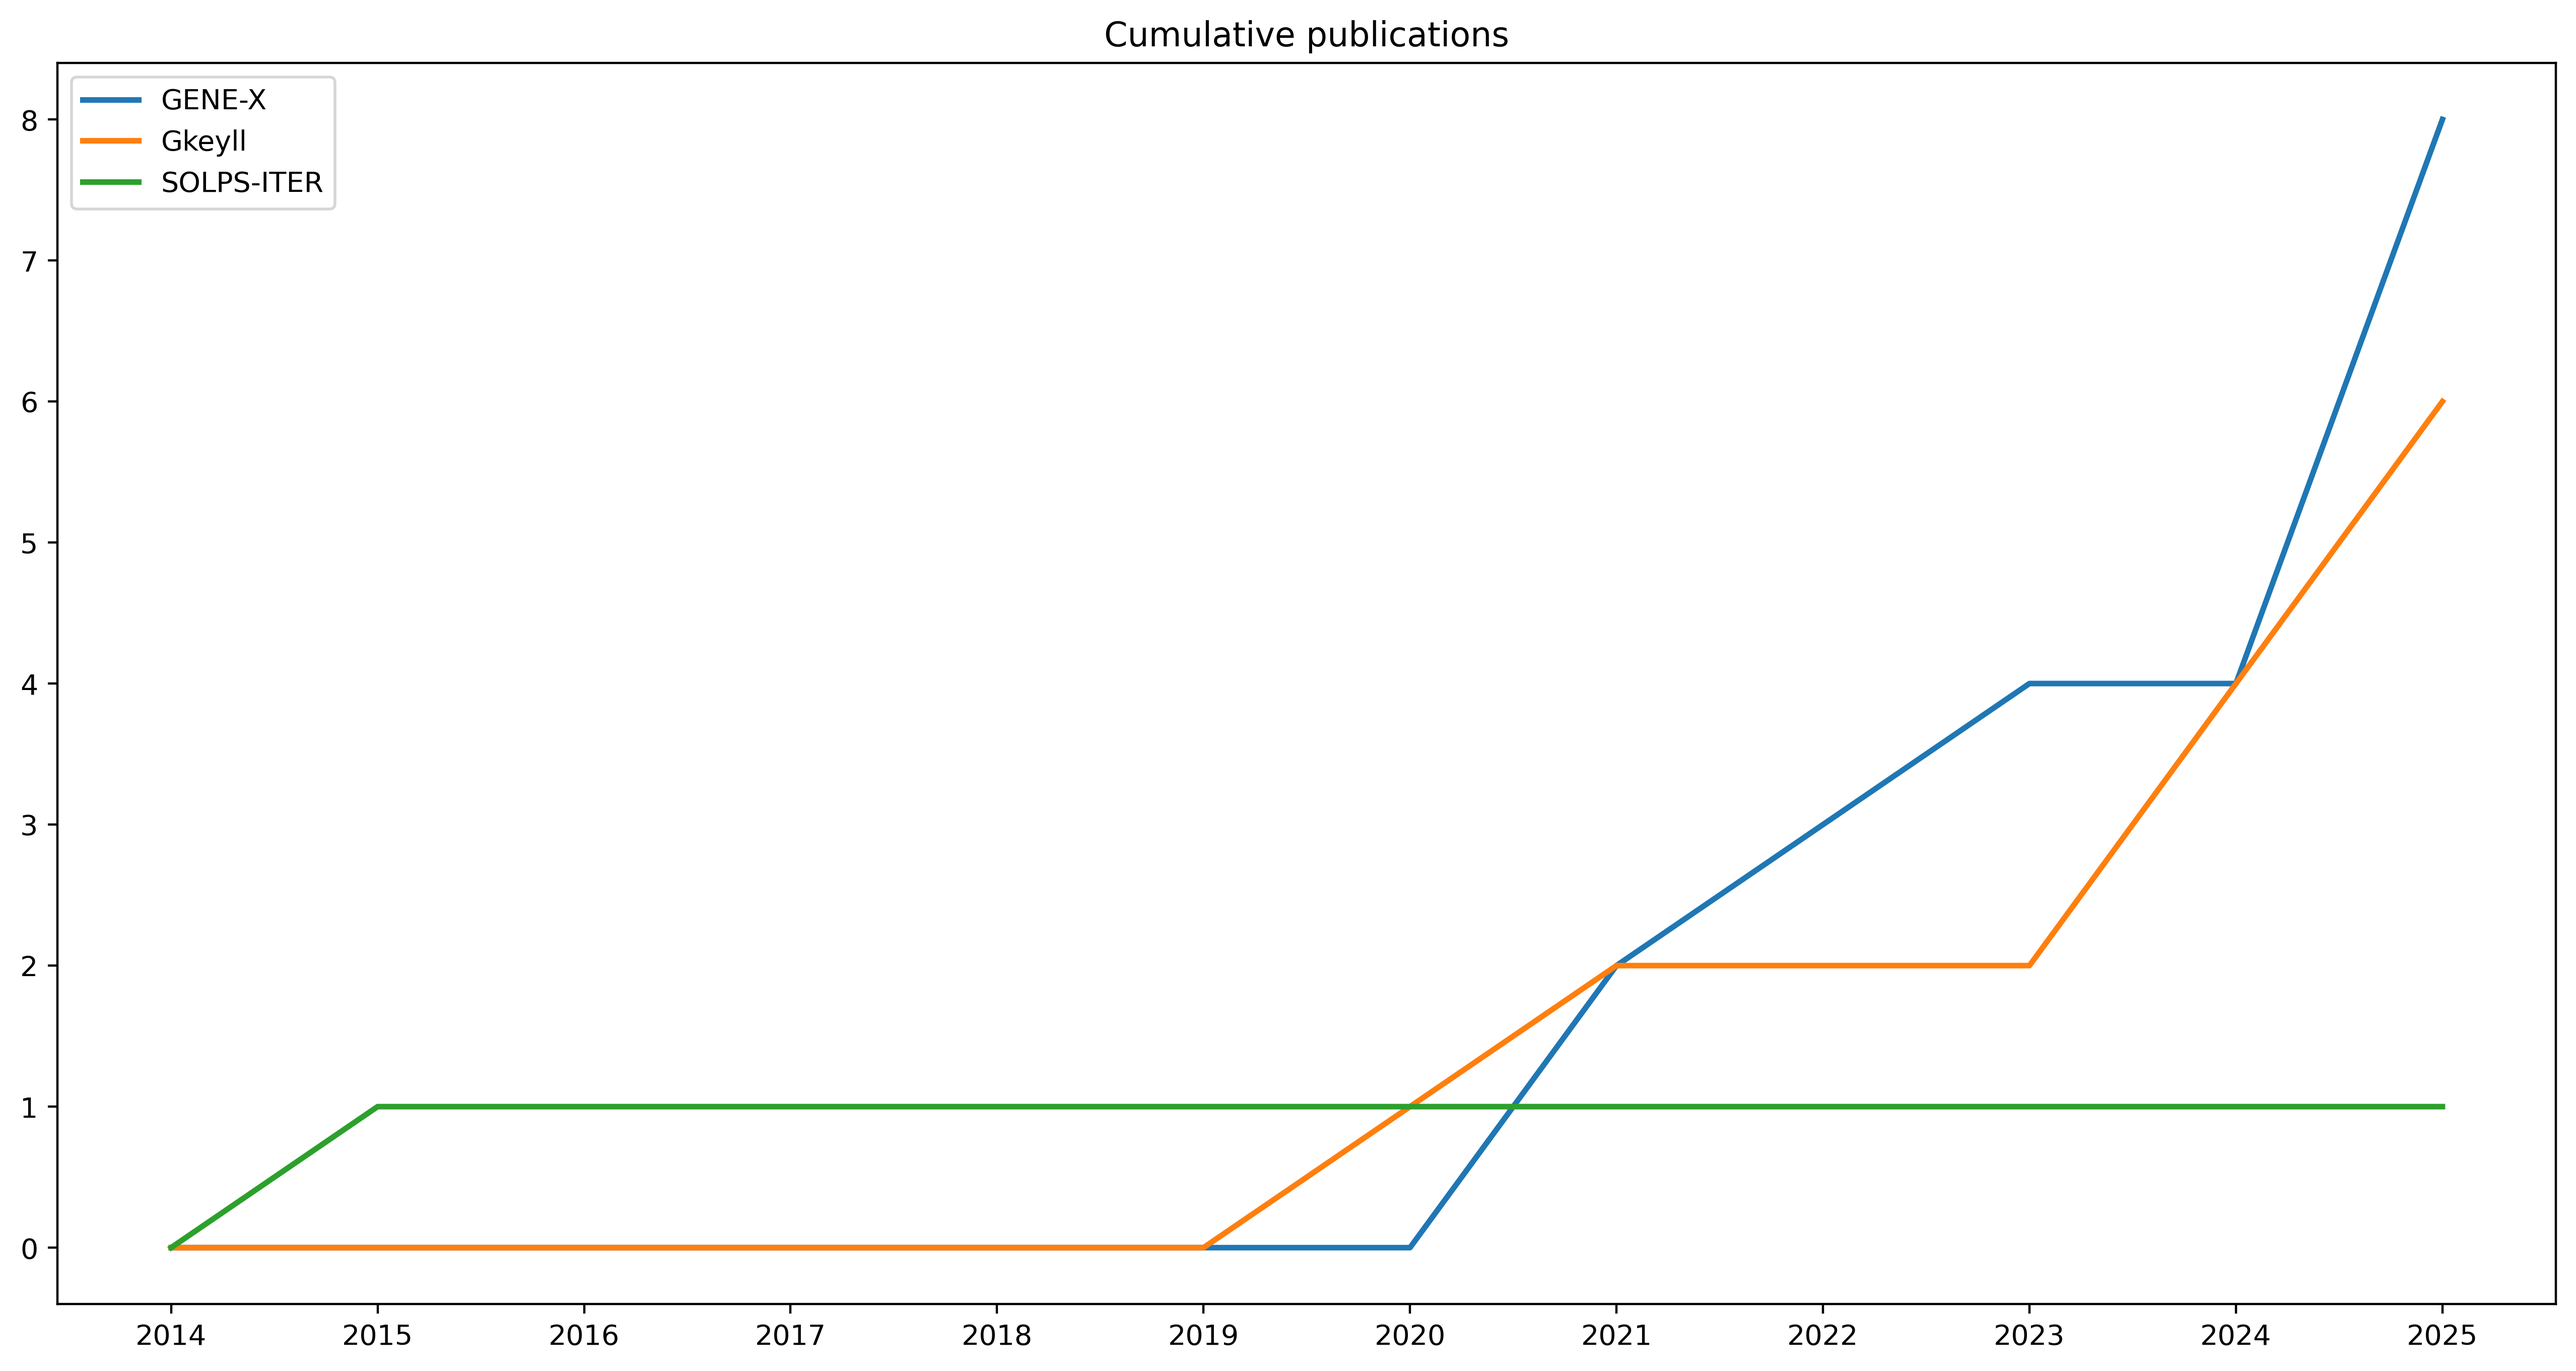
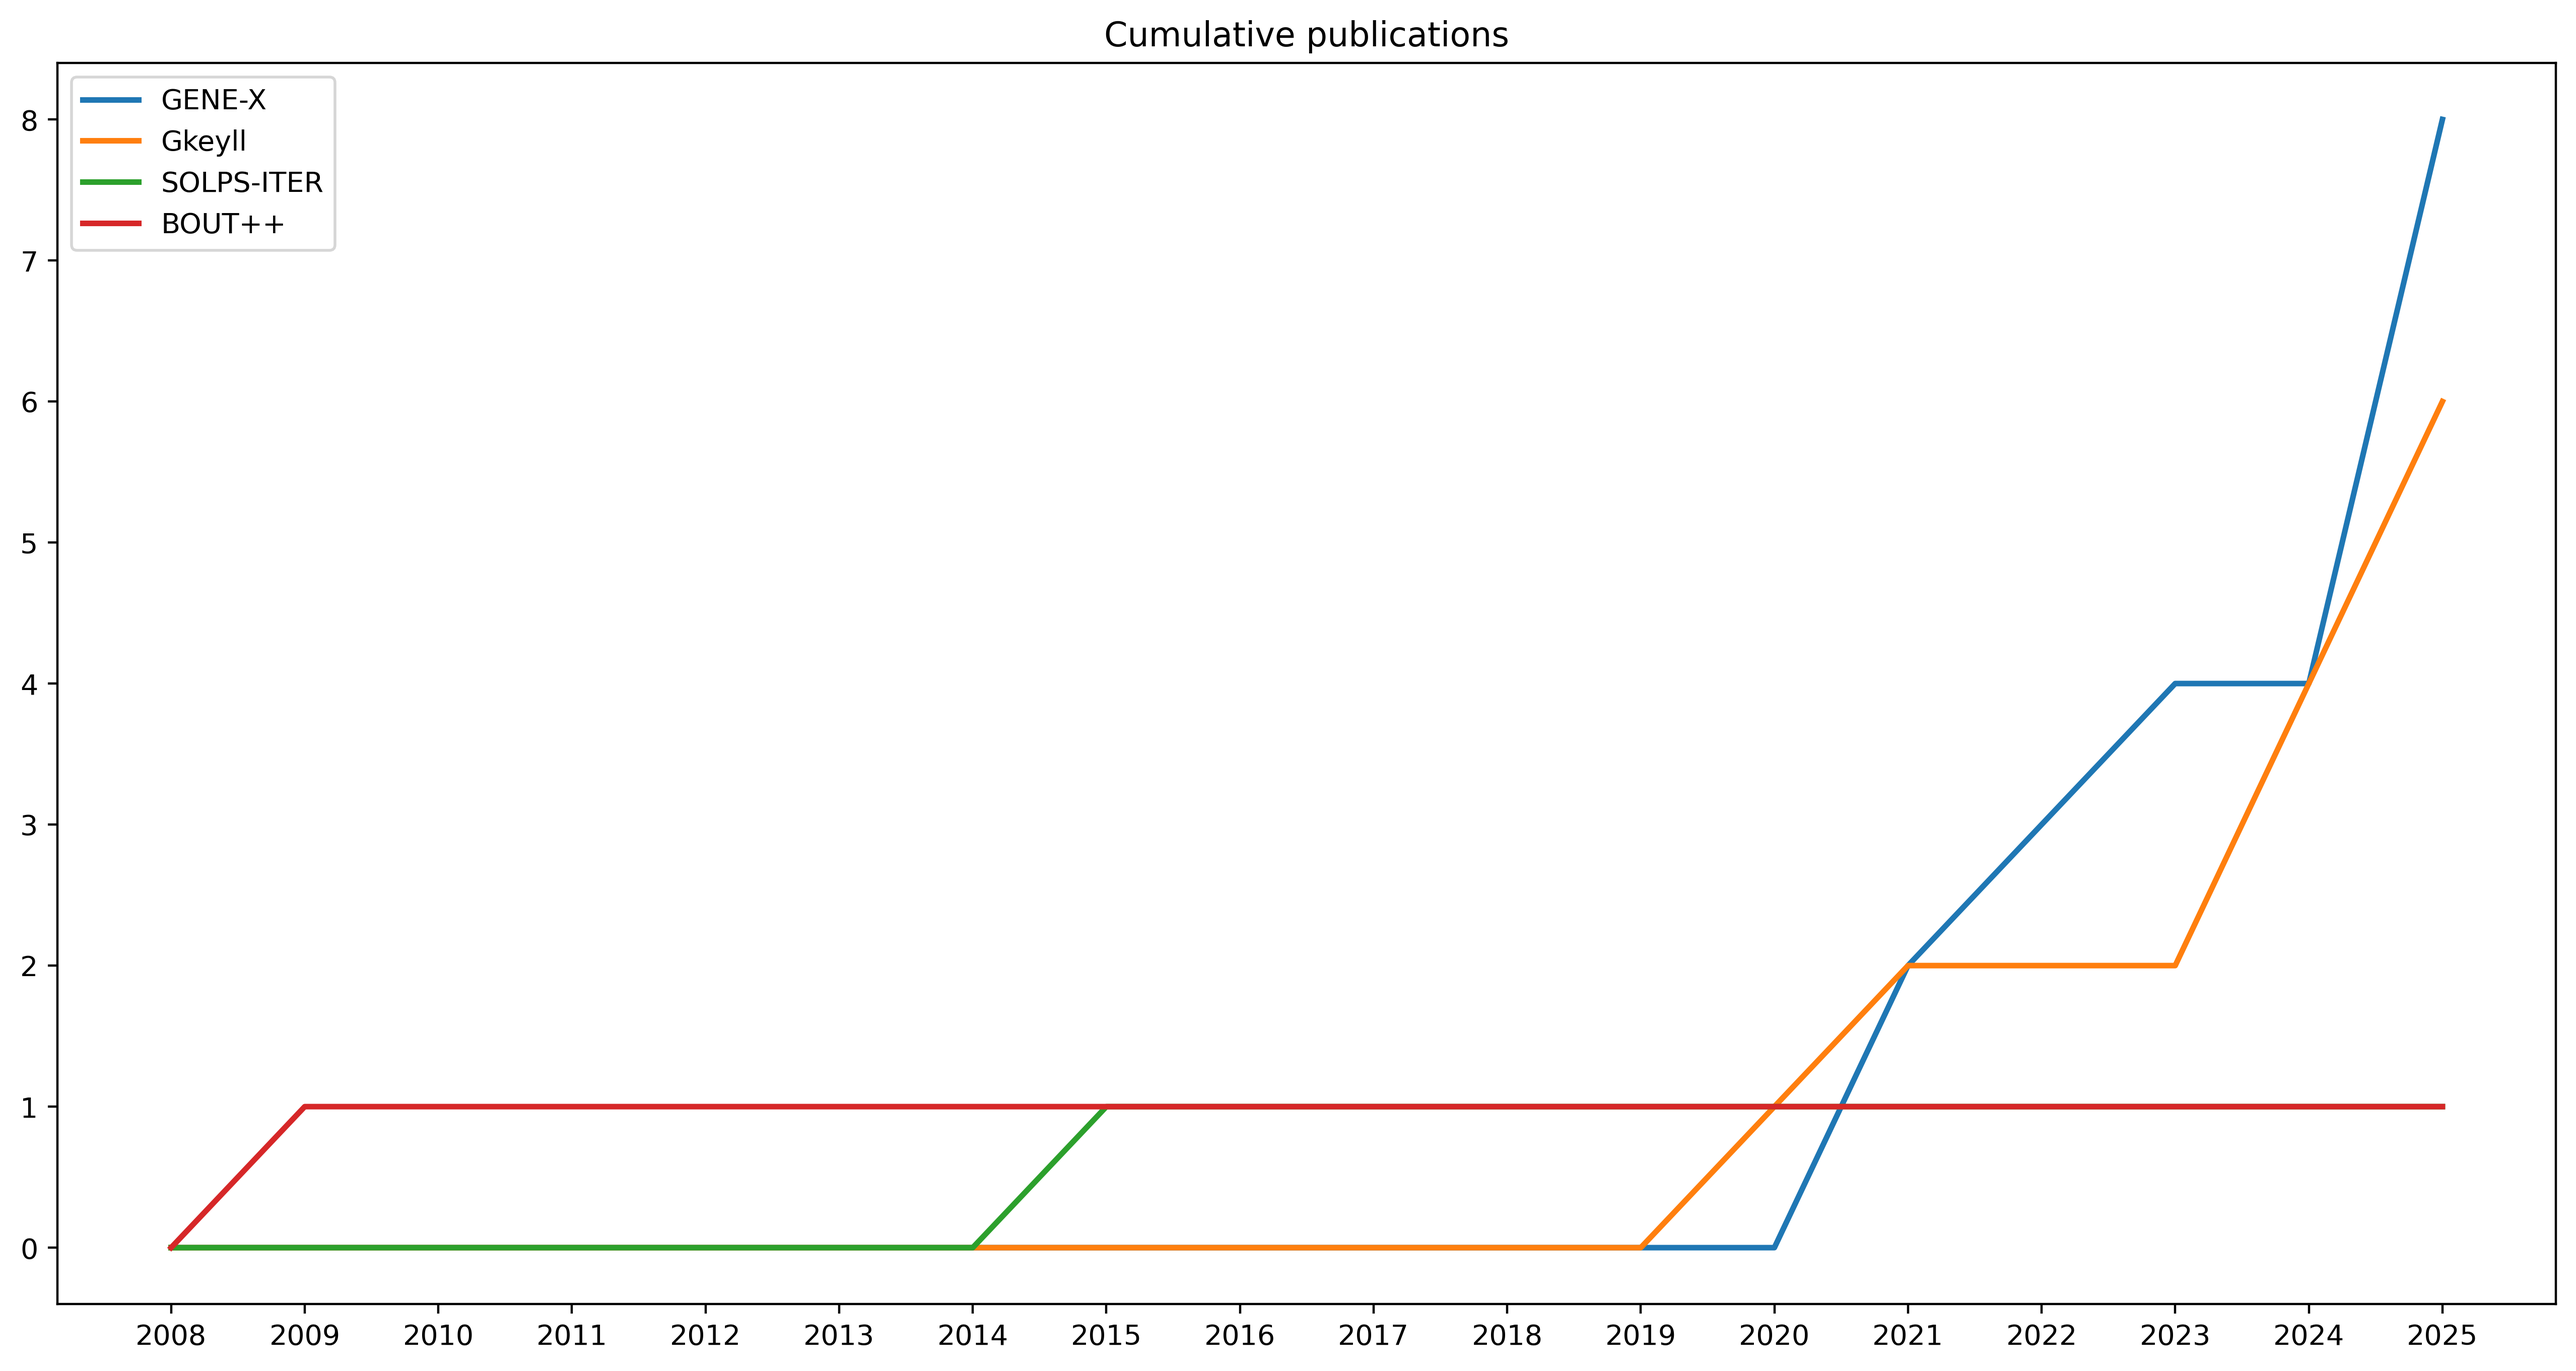
feat: add "10.1016/j.cpc.2009.03.008"

diff --git a/README.md b/README.md
@@ -19,6 +19,7 @@
 - Implementation and verification of a conservative, multi-species, gyro-averaged, full-*f*, Lenard-Bernstein/Dougherty collision operator in the gyrokinetic code GENE-X. Ulbl at el. (2021) [10.1002/ctpp.202100180](https://doi.org/10.1002/ctpp.202100180)
 - Alias-Free, Matrix-Free, and Quadrature-Free Discontinuous Galerkin Algorithms for (Plasma) Kinetic Equations. Hakim and Juno (2020) [10.1109/SC41405.2020.00077](https://doi.org/10.1109/SC41405.2020.00077)
 - The new SOLPS-ITER code package. Wiesen at el. (2015) [10.1016/j.jnucmat.2014.10.012](https://doi.org/10.1016/j.jnucmat.2014.10.012)
+- BOUT++: A framework for parallel plasma fluid simulations. Dudson at el. (2009) [10.1016/j.cpc.2009.03.008](https://doi.org/10.1016/j.cpc.2009.03.008)
 
 ## Codes
 
